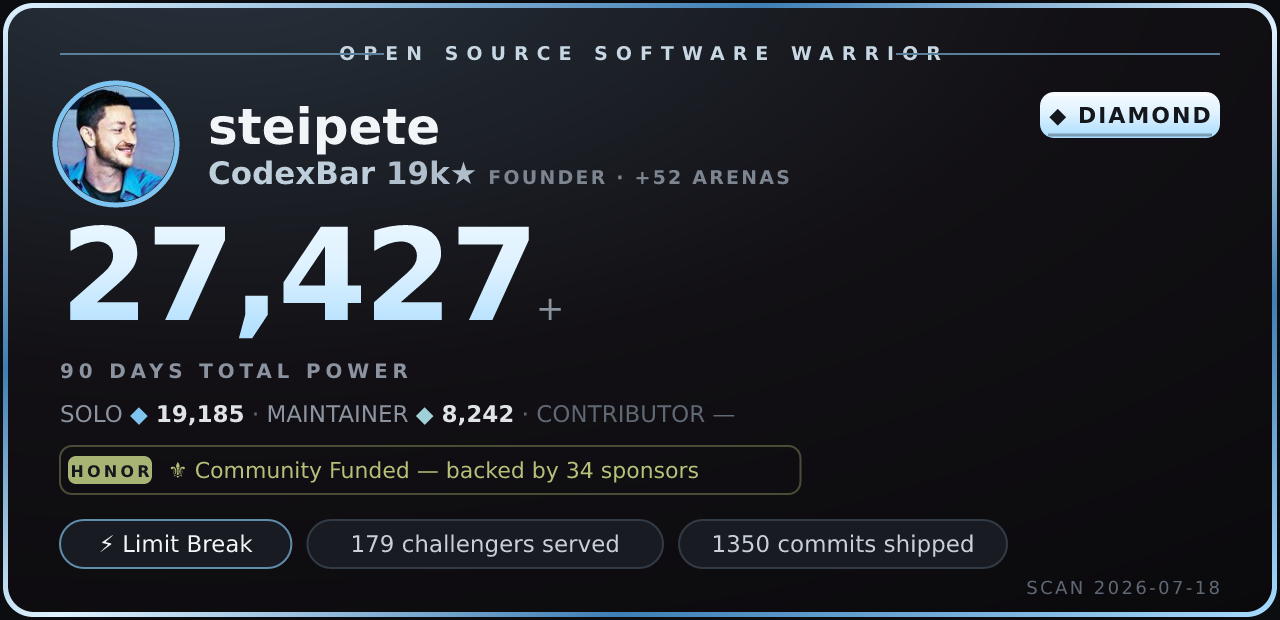
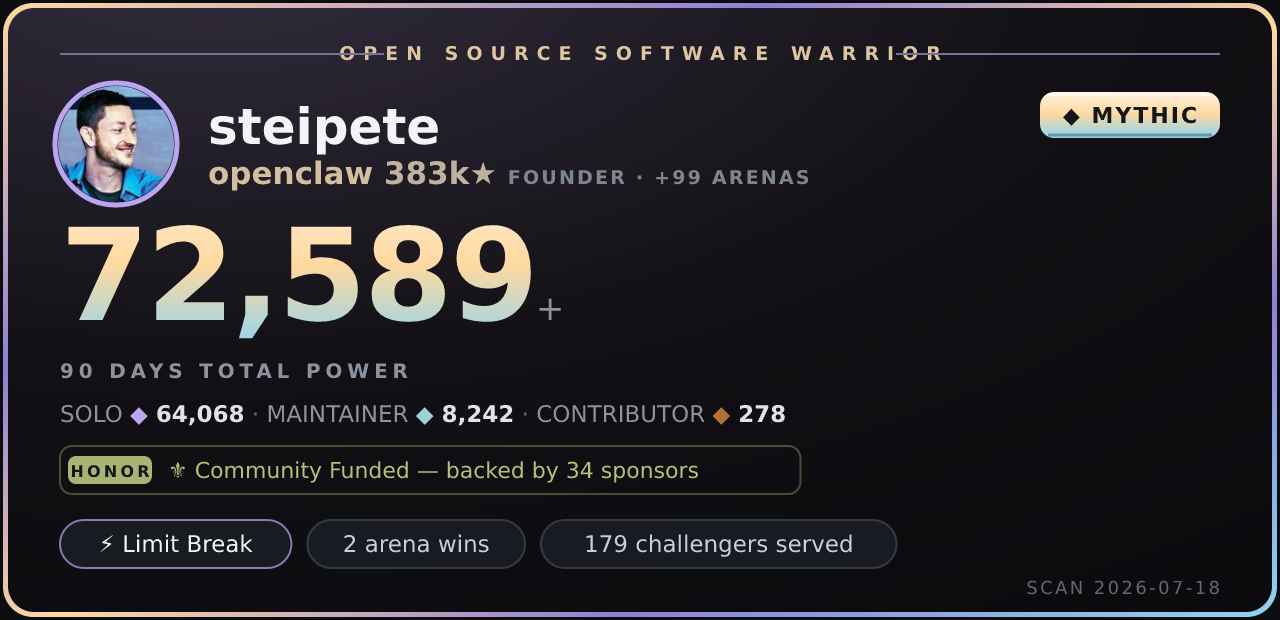
🔍 scouter scan

diff --git a/warrior/site/scan-steipete-2026-07-18.html b/warrior/site/scan-steipete-2026-07-18.html
@@ -3,9 +3,9 @@
 <head>
 <meta charset="utf-8">
 <meta name="viewport" content="width=device-width, initial-scale=1">
-<title>⚡ steipete — OSS power 27,427 (DIAMOND)</title>
+<title>⚡ steipete — OSS power 72,589 (MYTHIC)</title>
 <meta property="og:type" content="website">
-<meta property="og:title" content="⚡ steipete — OSS power 27,427 (DIAMOND)">
+<meta property="og:title" content="⚡ steipete — OSS power 72,589 (MYTHIC)">
 <meta property="og:description" content="Open Source Software Warrior — every contribution counts. Measured from public GitHub events.">
 <meta property="og:image" content="https://masatohoshino.github.io/masatohoshino/card-steipete-2026-07-18.png">
 <meta property="og:url" content="https://masatohoshino.github.io/masatohoshino/scan-steipete-2026-07-18.html">
@@ -25,21 +25,21 @@
   viewBox="0 0 640 310" role="img" aria-label="OSS Warrior card for steipete">
   <defs>
     <linearGradient id="frame" x1="0" y1="0" x2="1" y2="1">
-      <stop offset="0" stop-color="#dff2ff"/><stop offset=".3" stop-color="#3f7fb4"/>
-      <stop offset=".52" stop-color="#dff2ff"/><stop offset=".74" stop-color="#3f7fb4"/>
-      <stop offset="1" stop-color="#a8dcff"/>
+      <stop offset="0" stop-color="#ffd9a0"/><stop offset=".3" stop-color="#8f7fd4"/>
+      <stop offset=".52" stop-color="#ffd9a0"/><stop offset=".74" stop-color="#8f7fd4"/>
+      <stop offset="1" stop-color="#8fd4f0"/>
     </linearGradient>
     <radialGradient id="bg" cx="16%" cy="-10%" r="140%">
-      <stop offset="0" stop-color="#28333e"/>
+      <stop offset="0" stop-color="#332d3e"/>
       <stop offset=".5" stop-color="#121014"/><stop offset="1" stop-color="#0a090c"/>
     </radialGradient>
     <linearGradient id="num" x1="0" y1="0" x2="0" y2="1">
-      <stop offset="0" stop-color="#edf8ff"/>
-      <stop offset=".42" stop-color="#dff2ff"/><stop offset="1" stop-color="#a8dcff"/>
+      <stop offset="0" stop-color="#ffeacb"/>
+      <stop offset=".42" stop-color="#ffd9a0"/><stop offset="1" stop-color="#8fd4f0"/>
     </linearGradient>
     <linearGradient id="plaque" x1="0" y1="0" x2="0" y2="1">
-      <stop offset="0" stop-color="#f6fbff"/>
-      <stop offset=".46" stop-color="#dff2ff"/><stop offset="1" stop-color="#a8dcff"/>
+      <stop offset="0" stop-color="#fff4e4"/>
+      <stop offset=".46" stop-color="#ffd9a0"/><stop offset="1" stop-color="#8fd4f0"/>
     </linearGradient>
     <clipPath id="ava"><circle cx="58" cy="72" r="29"/></clipPath>
   </defs>
@@ -49,21 +49,21 @@
   
 
   <text x="320" y="30" text-anchor="middle" font-family="ui-monospace,SFMono-Regular,Menlo,monospace" font-size="9.5"
-    font-weight="600" letter-spacing="4" fill="#c7d7e4">OPEN SOURCE SOFTWARE WARRIOR</text>
-  <line x1="30" y1="27" x2="192" y2="27" stroke="#597f9b" stroke-width="1"/>
-  <line x1="448" y1="27" x2="610" y2="27" stroke="#597f9b" stroke-width="1"/>
+    font-weight="600" letter-spacing="4" fill="#dfc5a0">OPEN SOURCE SOFTWARE WARRIOR</text>
+  <line x1="30" y1="27" x2="192" y2="27" stroke="#76709c" stroke-width="1"/>
+  <line x1="448" y1="27" x2="610" y2="27" stroke="#76709c" stroke-width="1"/>
 
[1 lines of base64/hex data omitted]
-  <circle cx="58" cy="72" r="30.5" fill="none" stroke="#7fc4f0" stroke-width="2.5"/>
+  <circle cx="58" cy="72" r="30.5" fill="none" stroke="#b9a5f2" stroke-width="2.5"/>
   
 
   <text x="104" y="72" font-family="system-ui,-apple-system,'Segoe UI',sans-serif" font-size="25" font-weight="800"
     fill="#f2f5f8">steipete</text>
   
     <text x="104" y="92" font-family="system-ui,-apple-system,'Segoe UI',sans-serif" font-size="15.5" font-weight="700"
-      fill="#bfcedb">CodexBar
-      <tspan font-weight="600" fill="#b1becb"> 19k★</tspan>
-      <tspan font-size="9.5" letter-spacing="1.1" fill="#7d8590">  FOUNDER · +52 ARENAS</tspan>
+      fill="#d3bea0">openclaw
+      <tspan font-weight="600" fill="#bfb3a0"> 383k★</tspan>
+      <tspan font-size="9.5" letter-spacing="1.1" fill="#7d8590">  FOUNDER · +99 ARENAS</tspan>
     </text>
 
   <g>
@@ -73,15 +73,15 @@
     <line x1="524" y1="67.5" x2="606" y2="67.5"
       stroke="rgba(0,0,0,.3)" stroke-width="1.5"/>
     <text x="565" y="61.5" text-anchor="middle" font-family="ui-monospace,SFMono-Regular,Menlo,monospace"
-      font-size="11" font-weight="800" letter-spacing="1" fill="#14171c">◆ DIAMOND</text>
+      font-size="11" font-weight="800" letter-spacing="1" fill="#14171c">◆ MYTHIC</text>
   </g>
 
   <text x="30" y="160" font-family="system-ui,-apple-system,'Segoe UI',sans-serif" font-size="64" font-weight="800"
-    letter-spacing="-1.5" fill="url(#num)">27,427<tspan font-size="17" fill="#8b93a0" font-weight="500">+</tspan></text>
+    letter-spacing="-1.5" fill="url(#num)">72,589<tspan font-size="17" fill="#8b93a0" font-weight="500">+</tspan></text>
   <text x="30" y="189" font-family="ui-monospace,SFMono-Regular,Menlo,monospace" font-size="10" letter-spacing="2.4"
     font-weight="600" fill="#8b93a0">90 DAYS TOTAL POWER</text>
 
-  <text x="30" y="211" font-family="ui-monospace,SFMono-Regular,Menlo,monospace" font-size="11.5"><tspan fill="#8b93a0">SOLO </tspan><tspan fill="#7fc4f0">◆</tspan><tspan fill="#dfe3e8" font-weight="600"> 19,185</tspan><tspan fill="#5f6875"> · </tspan><tspan fill="#8b93a0">MAINTAINER </tspan><tspan fill="#9fd0d6">◆</tspan><tspan fill="#dfe3e8" font-weight="600"> 8,242</tspan><tspan fill="#5f6875"> · </tspan><tspan fill="#5f6875">CONTRIBUTOR —</tspan></text>
+  <text x="30" y="211" font-family="ui-monospace,SFMono-Regular,Menlo,monospace" font-size="11.5"><tspan fill="#8b93a0">SOLO </tspan><tspan fill="#b9a5f2">◆</tspan><tspan fill="#dfe3e8" font-weight="600"> 64,068</tspan><tspan fill="#5f6875"> · </tspan><tspan fill="#8b93a0">MAINTAINER </tspan><tspan fill="#9fd0d6">◆</tspan><tspan fill="#dfe3e8" font-weight="600"> 8,242</tspan><tspan fill="#5f6875"> · </tspan><tspan fill="#8b93a0">CONTRIBUTOR </tspan><tspan fill="#b0713a">◆</tspan><tspan fill="#dfe3e8" font-weight="600"> 278</tspan></text>
 
   
     <g transform="translate(30,223)">
@@ -94,27 +94,27 @@
   
     <g transform="translate(30,260)">
       <rect width="115.7" height="24" rx="12" fill="#181c22"
-        stroke="#608dac"/>
+        stroke="#837aad"/>
       <text x="57.85" y="16" text-anchor="middle" font-family="system-ui,-apple-system,'Segoe UI',sans-serif"
         font-size="11.5" fill="#f2f5f8">⚡ Limit Break</text>
     </g>
     <g transform="translate(153.7,260)">
+      <rect width="108.8" height="24" rx="12" fill="#181c22"
+        stroke="#323a45"/>
+      <text x="54.4" y="16" text-anchor="middle" font-family="system-ui,-apple-system,'Segoe UI',sans-serif"
+        font-size="11.5" fill="#c9cfd8">2 arena wins</text>
+    </g>
+    <g transform="translate(270.5,260)">
       <rect width="177.79999999999998" height="24" rx="12" fill="#181c22"
         stroke="#323a45"/>
       <text x="88.89999999999999" y="16" text-anchor="middle" font-family="system-ui,-apple-system,'Segoe UI',sans-serif"
         font-size="11.5" fill="#c9cfd8">179 challengers served</text>
     </g>
-    <g transform="translate(339.5,260)">
-      <rect width="164" height="24" rx="12" fill="#181c22"
-        stroke="#323a45"/>
-      <text x="82" y="16" text-anchor="middle" font-family="system-ui,-apple-system,'Segoe UI',sans-serif"
-        font-size="11.5" fill="#c9cfd8">1350 commits shipped</text>
-    </g>
 
   <text x="610" y="297" text-anchor="end" font-family="ui-monospace,SFMono-Regular,Menlo,monospace" font-size="9"
     letter-spacing="1.2" fill="#5f6875">SCAN 2026-07-18</text>
 </svg></div>
-<a class="btn" href="https://x.com/intent/post?text=%E2%9A%A1%20Scouter%20reading%3A%20steipete%20%E2%80%94%20power%2027%2C427%2C%20RANK%20DIAMOND%0AEvery%20contribution%20counts.&amp;url=https%3A%2F%2Fmasatohoshino.github.io%2Fmasatohoshino%2Fscan-steipete-2026-07-18.html">Post to X</a>
+<a class="btn" href="https://x.com/intent/post?text=%E2%9A%A1%20Scouter%20reading%3A%20steipete%20%E2%80%94%20power%2072%2C589%2C%20RANK%20MYTHIC%0AEvery%20contribution%20counts.&amp;url=https%3A%2F%2Fmasatohoshino.github.io%2Fmasatohoshino%2Fscan-steipete-2026-07-18.html">Post to X</a>
 <p>Every figure derives from public GitHub events — reproducible by anyone.<br>
 <a href="https://github.com/masatohoshino/oss-warrior">⚡ Measure your own power level</a> ·
 <a href="scouter.html">🔍 Scan any account</a></p>

diff --git a/warrior/last-scan-comment.md b/warrior/last-scan-comment.md
@@ -2,8 +2,8 @@
 
 ![steipete warrior card](https://raw.githubusercontent.com/masatohoshino/masatohoshino/main/warrior/site/card-steipete-2026-07-18.png)
 
-**TOTAL POWER 27,427 — RANK DIAMOND**
+**TOTAL POWER 72,589 — RANK MYTHIC**
 
-[Post to X](https://x.com/intent/post?text=%E2%9A%A1%20Scouter%20reading%3A%20steipete%20%E2%80%94%20power%2027%2C427%2C%20RANK%20DIAMOND%0AEvery%20contribution%20counts.&url=https%3A%2F%2Fmasatohoshino.github.io%2Fmasatohoshino%2Fscan-steipete-2026-07-18.html) · [Share page](https://masatohoshino.github.io/masatohoshino/scan-steipete-2026-07-18.html)
+[Post to X](https://x.com/intent/post?text=%E2%9A%A1%20Scouter%20reading%3A%20steipete%20%E2%80%94%20power%2072%2C589%2C%20RANK%20MYTHIC%0AEvery%20contribution%20counts.&url=https%3A%2F%2Fmasatohoshino.github.io%2Fmasatohoshino%2Fscan-steipete-2026-07-18.html) · [Share page](https://masatohoshino.github.io/masatohoshino/scan-steipete-2026-07-18.html)
 
 <sub>Measured from public GitHub events · scan window 2026-04-19 → 2026-07-18 · every contribution counts.</sub>
